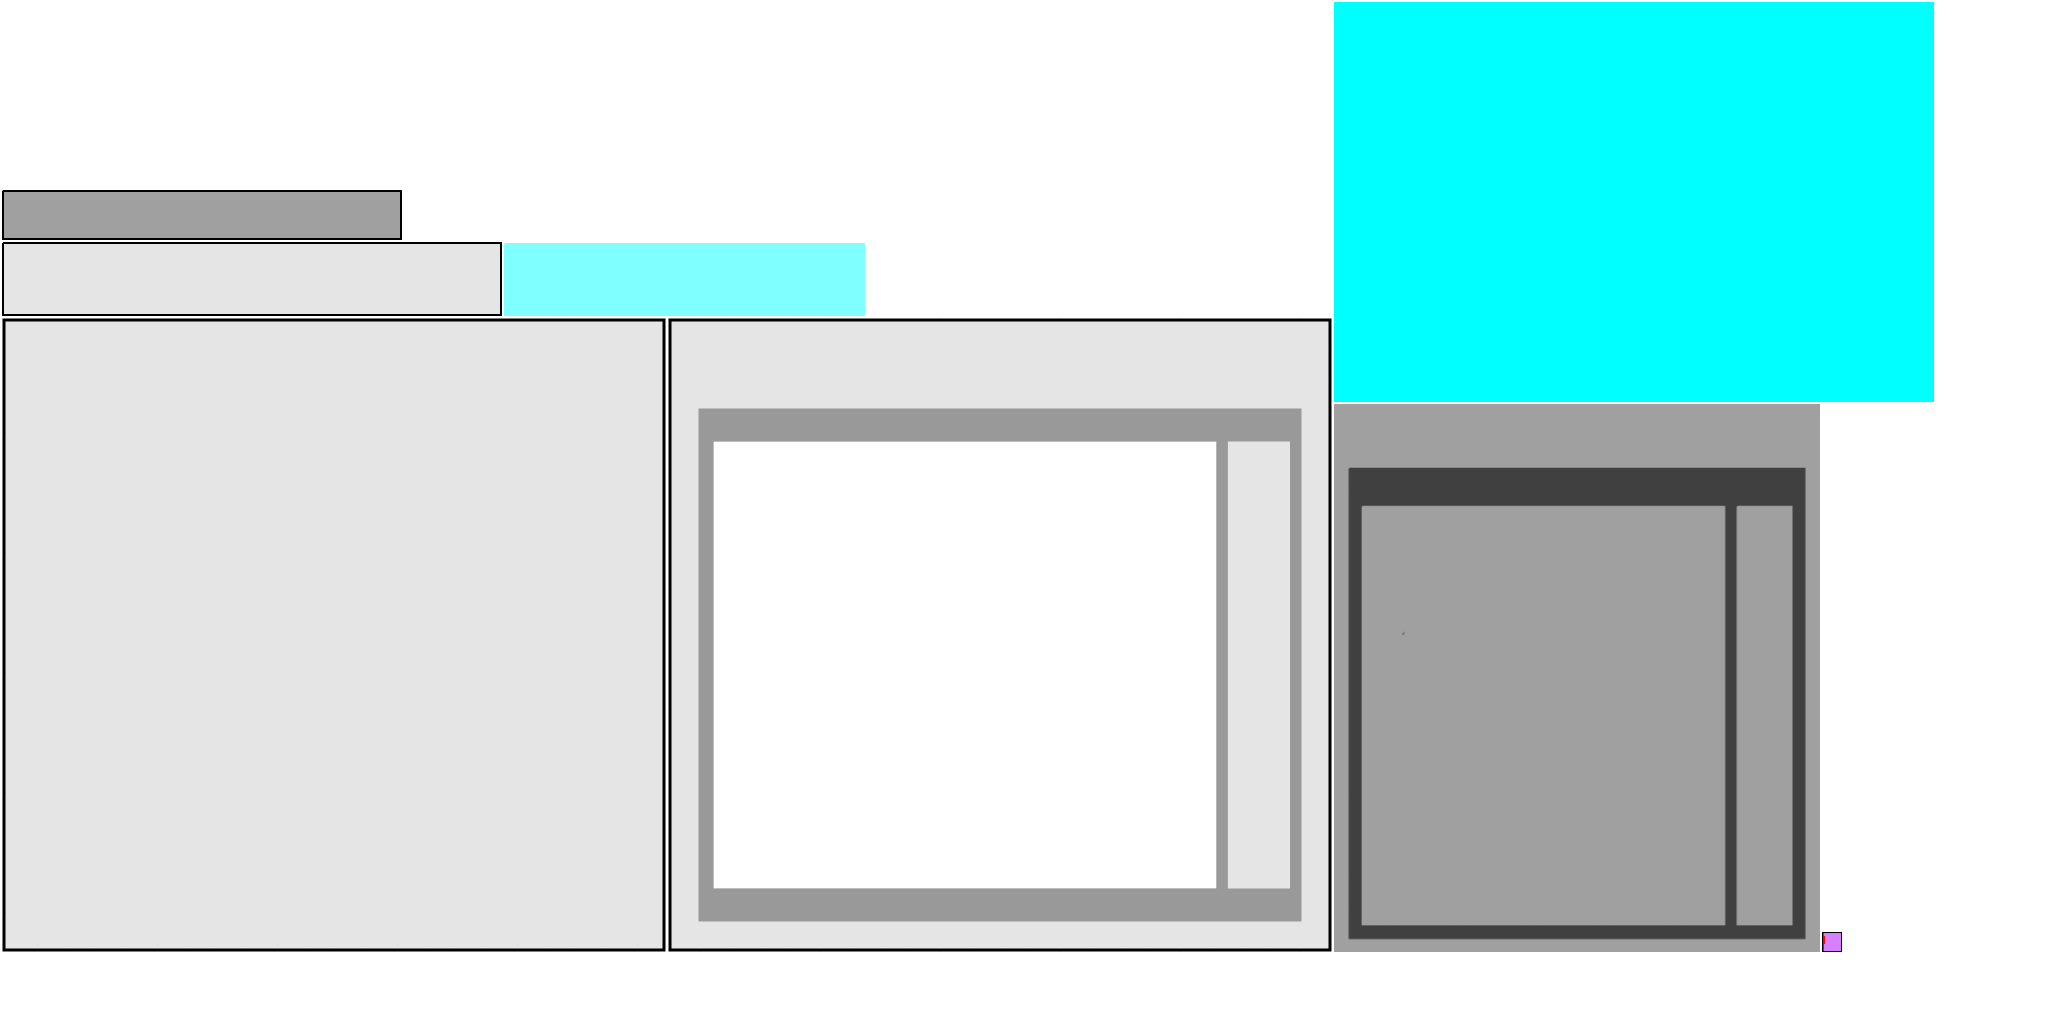
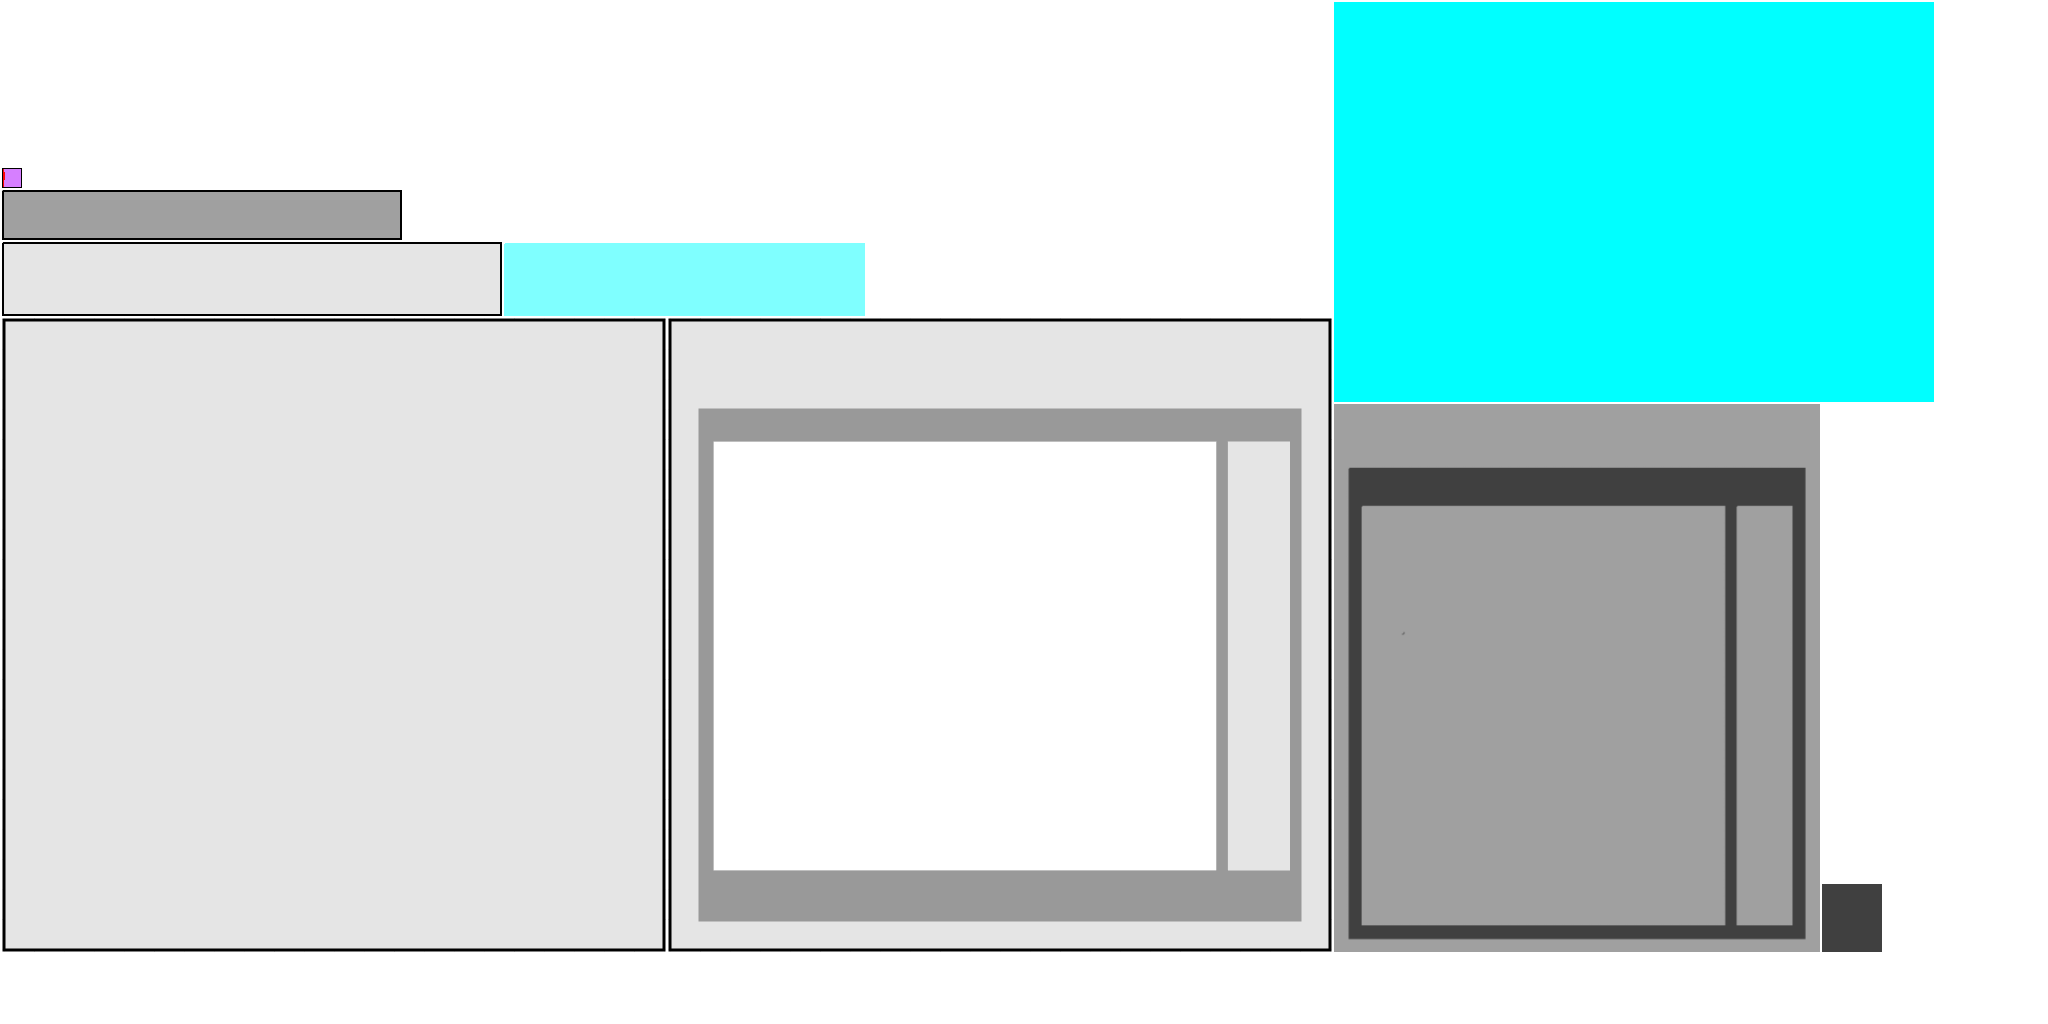
finalize

Changed region(s): [[0.3438, 0.8438, 0.625, 0.875], [0.875, 0.8438, 0.9375, 0.9375], [0.0, 0.1562, 0.0312, 0.1875]]

diff --git a/core/src/gameCode/Menus/LoadGame.java b/core/src/gameCode/Menus/LoadGame.java
@@ -5,6 +5,7 @@ import com.badlogic.gdx.Input;
 import gameCode.Infastructure.Component;
 import gameCode.Infastructure.Entity;
 import gameCode.Infastructure.TextComponent;
+import gameCode.Utilities.MathUtils;
 import gameCode.Utilities.StringUtils;
 import gameCode.Infastructure.InputAL;
 import java.util.ArrayList;
@@ -16,7 +17,14 @@ public class LoadGame extends Component {
     private MenuItem background;
     private MenuItem overlay;
     private MenuItem title;
+    private MenuItem scrollBar;
 
+    private float scrollIndex;
+    private float scrollPerFrame = 6.0f;
+    private int itemHeight = 75;
+
+    private int menuTop = 125;
+    private int menuBottom = 552;
 
     ArrayList<MenuItem> gameItems = new ArrayList<MenuItem>();
 
@@ -27,31 +35,66 @@ public class LoadGame extends Component {
 
         int padding = 5;
         int yOff = padding + 50;
-
+        scrollIndex = 0;
 
         //background
         background = new MenuItem("[type: menu][name: background]", "loadGameBackground", null, "[vertical: center][horizontal: center]", 0, 0, 0, 664, 634);
         overlay = new MenuItem("[type: menu][name: overlay]", "loadGameOverlay", background.treeNode, "[vertical: center][horizontal: center]", 0, 0, 2, 664, 634);
-
+        scrollBar = new MenuItem("[type: menu][name: scrollBar]", "scrollBar", background.treeNode, "[vertical: top][horizontal: right]", -60, 0, 2, 60, 68);
 
         //load game files
-        for(int x = 0; x < 1; x++) {
+        for(int x = 0; x < 20; x++) {
             String name = "[type: menu][name: ]";
             name = StringUtils.setField(name, "name", StringUtils.toString(x));
-            MenuItem gameItem = new MenuItem(name, "loadGameListItem", background.treeNode, "[vertical: top][horizontal: center]", -35, 115, 1, 500, 74);
+            MenuItem gameItem = new MenuItem(name, "loadGameListItem", background.treeNode, "[vertical: top][horizontal: center]", -35, 0, 1, 500, 74);
+            gameItem.addText(new TextComponent("world whatever", 10, "center", 0, 0)); 
             gameItems.add(gameItem);
         }
 
+        positionItems();
+    }
+
+    private void positionItems() {
+
+        float upperBound = (gameItems.size() - 1) * itemHeight * -1;
+        scrollIndex = MathUtils.clamp(scrollIndex, upperBound, 0.0f);
+
+        //Position the game files in a list order =====================================
+        for(int x = 0; x < gameItems.size(); x++)  {
+
+            int yPos = (int) (menuTop + scrollIndex + (x * itemHeight));
+            gameItems.get(x).ent.drawMode = "hud";
+
+            //if the yPos is out of bounds hide it
+            if(yPos < menuTop - itemHeight) gameItems.get(x).ent.drawMode = "hidden";
+            if(yPos > menuBottom) gameItems.get(x).ent.drawMode = "hidden";
+
+            gameItems.get(x).yOffset = yPos;
+            gameItems.get(x).positionItem();
+        }
+
+        //Position the scroll bar =======================================================
+        int barTop = menuTop;
+        int barBot = menuBottom - itemHeight + 6;
+        float adjPs = menuTop + (barBot - menuTop) * (scrollIndex / upperBound);
+
+        scrollBar.xOffset = -43;
+        scrollBar.yOffset = (int)adjPs;
+        scrollBar.positionItem();
     }
 
     public void update(Entity entity) {
 
 
+        if(InputAL.isKeyPressed("down")) {
+            scrollIndex -= scrollPerFrame;
+            positionItems();
+        }
 
-        if(Gdx.input.isButtonPressed(Input.Keys.M)) {
-            background.xOffset++;
-            background.positionItem();
-            System.out.println("we got here");
+        if(InputAL.isKeyPressed("up")) {
+            scrollIndex += scrollPerFrame;
+            positionItems();
+
         }
 
     }

diff --git a/core/src/gameCode/Infastructure/InputAL.java b/core/src/gameCode/Infastructure/InputAL.java
@@ -20,9 +20,11 @@ public class InputAL {
 
         //Add all the numerical keys here ================
 
-
         //Add all the special keys here ==================
-        keys.put("left", Input.Keys.M);
+        keys.put("left", Input.Keys.LEFT);
+        keys.put("right", Input.Keys.RIGHT);
+        keys.put("up", Input.Keys.UP);
+        keys.put("down", Input.Keys.DOWN);
 
         //Add all the mouse buttons here =================
         keys.put("mouse left", Input.Buttons.LEFT);
@@ -41,9 +43,9 @@ public class InputAL {
         return mouseY;
     }
 
-    public static boolean isPressed(String val) {
+    public static boolean isKeyPressed(String val) {
         if(!keys.containsKey(val)) return false;
-        if(Gdx.input.isButtonPressed(keys.get(val)) ) return true;
+        if(Gdx.input.isKeyPressed(keys.get(val)) ) return true;
         else return false;
     }
 

diff --git a/core/src/gameCode/Menus/MenuItem.java b/core/src/gameCode/Menus/MenuItem.java
@@ -90,6 +90,8 @@ public class MenuItem {
     }
 
     public boolean isLeftClicked() {
+
+        /*
         if (!hover() && !InputAL.isPressed("mouse left")) clickStateL = 0;
         if (clickStateL == 0 && hover() && !InputAL.isPressed("mouse left")) clickStateL = 1;
         if (clickStateL == 1 && hover() && InputAL.isPressed("mouse left")) clickStateL = 2;
@@ -97,6 +99,8 @@ public class MenuItem {
             clickStateL = 0;
             return true;
         }
+
+         */
         return false;
     }
 

diff --git a/core/src/gameCode/Infastructure/Graphics.java b/core/src/gameCode/Infastructure/Graphics.java
@@ -117,6 +117,7 @@ public class Graphics implements Disposable {
         addSprite("loadGameBackground");
         addSprite("loadGameOverlay");
         addSprite("loadGameListItem");
+        addSprite("scrollBar");
 
 
         //set up the tile atlas ==================================================================
